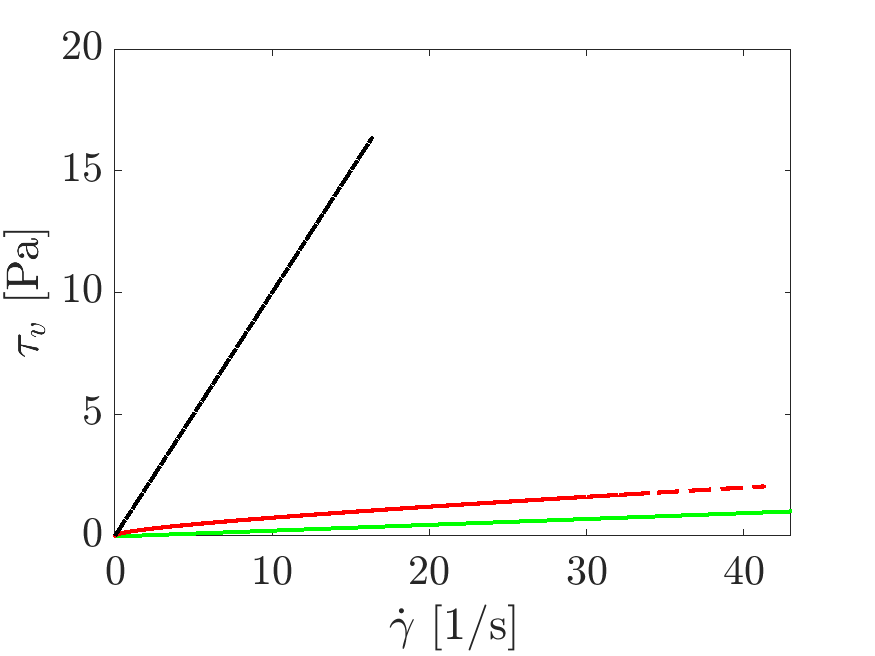
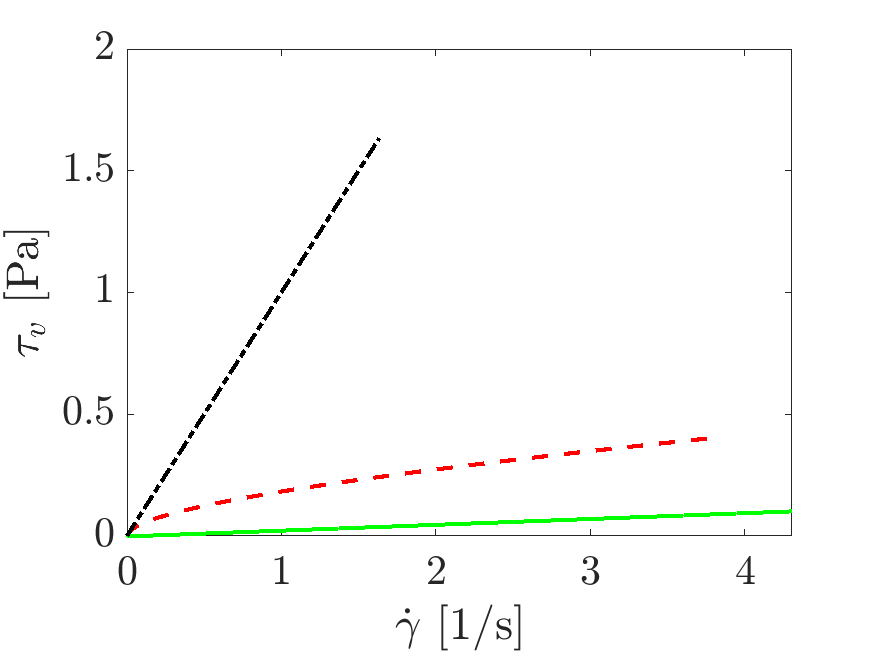
improved tau v gamma plot

diff --git a/bubblewall_main.m b/bubblewall_main.m
@@ -8,7 +8,7 @@ rho=1060;                               % density of liquid = 1000
 mud=1E-3;                               % dynamic viscosity
 c=1500;                                 % speed of sound 
 kappa = 1.4;                            % ratio of specific heats
-deltap=10;                              % amplitude of wave
+deltap= 1;                              % amplitude of wave
 w=345E3;                                % frequency of wave = 345E32
 shearmodulus = 0;                       % shear modulus of the surounding material
 mu_water = 8.9*10E-4;                   % viscosity of water
@@ -109,8 +109,12 @@ figure(4)
 tautrace = mutrace.*gamma;
 plot(tspan,tautrace,'g','LineWidth',2); 
 figure(5)
-tautrace = abs(mutrace.*gamma);
-plot(abs(gamman),tautrace,'g','LineWidth',2); 
+tautrace = mutrace.*gamma;
+taug = abs([gamman;tautrace]);
+taug = sortrows(taug');
+gt = taug(:,1);
+taut = taug(:,2);
+plot(gt,taut,'g','LineWidth',2); 
 
 %Blood
 vmaterial = 'lsq_blood';
@@ -130,8 +134,12 @@ figure(4)
 tautrace = mutrace.*gamma;
 plot(tspan,tautrace, 'r--','LineWidth',2);
 figure(5)
-tautrace = abs(mutrace.*gamma);
-plot(abs(gamman),tautrace, 'r--','LineWidth',2);
+tautrace = mutrace.*gamma;
+taug = abs([gamman;tautrace]);
+taug = sortrows(taug');
+gt = taug(:,1);
+taut = taug(:,2);
+plot(gt,taut, 'r--','LineWidth',2);
 
 %blood 0
 vmaterial = 'lsq_mu_knot';
@@ -151,8 +159,12 @@ figure(4)
 tautrace = mutrace.*gamma;
 plot(tspan,tautrace,'k-.','LineWidth',2); 
 figure(5)
-tautrace = abs(mutrace.*gamma);
-plot(abs(gamman),tautrace,'k-.','LineWidth',2); 
+tautrace = mutrace.*gamma;
+taug = abs([gamman;tautrace]);
+taug = sortrows(taug');
+gt = taug(:,1);
+taut = taug(:,2);
+plot(gt,taut,'k-.','LineWidth',2); 
 % xlim([0 max(gamma)])
 
 %Save figures
